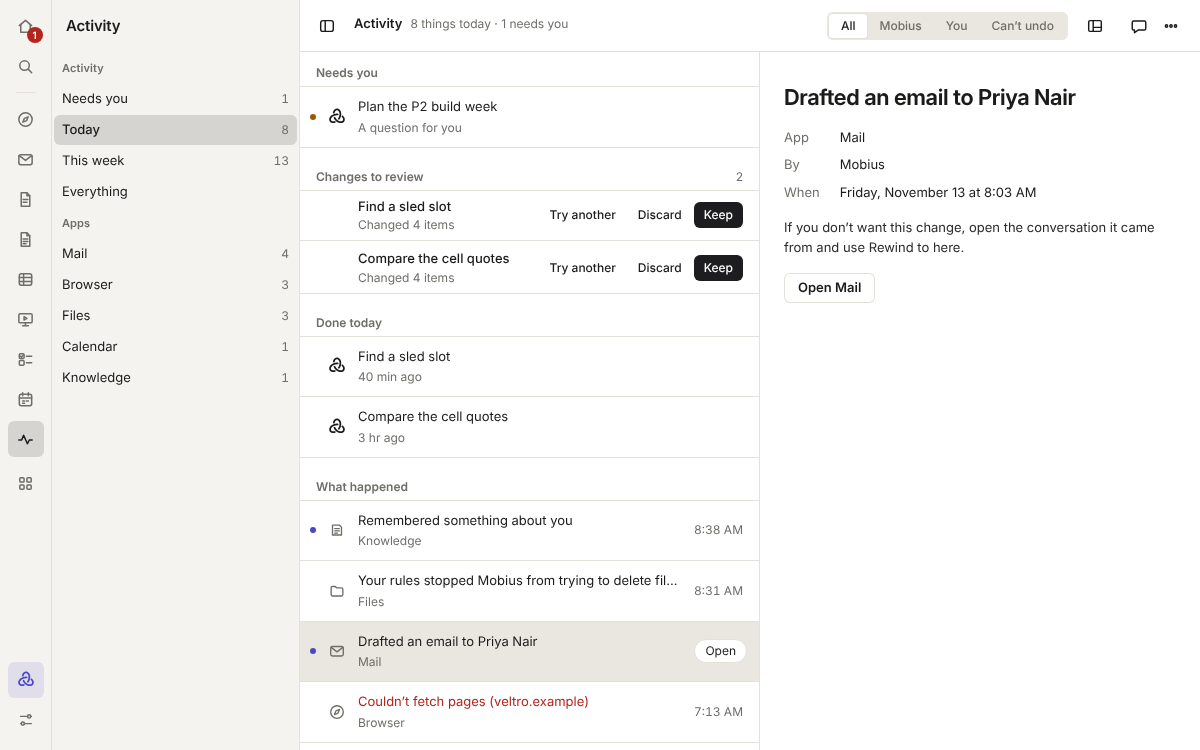
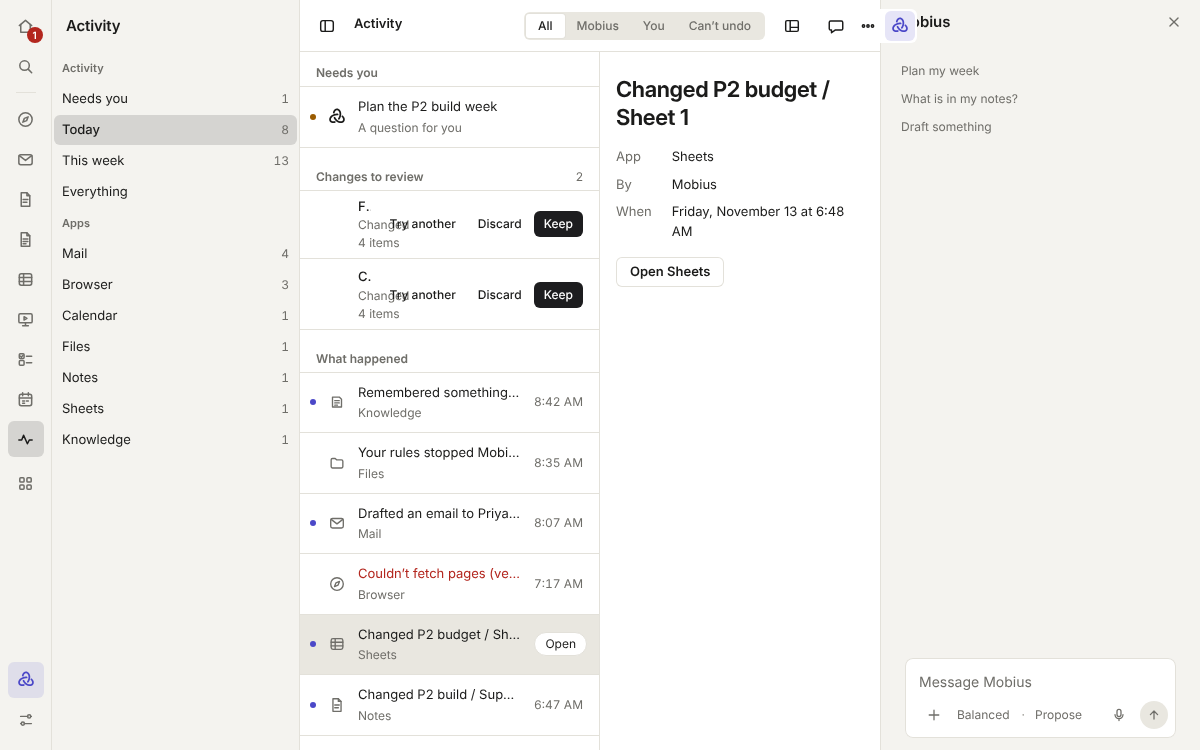
Activity: review fixes
Mobius sits beside Activity like every app; Rewind to here on a changed
line instead of an explanation; a changed file is listed under its app
(Sheets, Notes); a conversation with changes to review isn't listed again
under Done today.

Claude-Session: https://claude.ai/code/session_01VRGwo8MQeAp1rbd5MofB7H

diff --git a/apps/desktop/src/ActivityApp.tsx b/apps/desktop/src/ActivityApp.tsx
@@ -14,8 +14,41 @@ import './activity.css';
 /** How many log entries the page reads: about a week of ordinary use. */
 const LIMIT = 400;
 
-/** What is open on the right: a conversation (with its turns), or one line of the history. */
-type Picked = { kind: 'conversation'; id: string } | { kind: 'item'; seq: number } | null;
+/** What is open on the right: a conversation (with its turns, maybe asking to rewind to one), or one line of the history. */
+type Picked = { kind: 'conversation'; id: string; rewindTo?: string } | { kind: 'item'; seq: number } | null;
+
+/**
+ * Where to rewind to so that a line of the history is undone: the turn before the one it happened in, in the
+ * conversation that was working then. Only conversations that moved after it are read. Null when there is none (it
+ * happened in a conversation's first turn, or no turn is saved).
+ */
+async function rewindFor(when: number, conversations: readonly ConversationInfo[]): Promise<{ id: string; start: string } | null> {
+  const api = window.mobius.changes;
+  if (!api?.turns) return null;
+  let best: { id: string; start: string; at: number } | null = null;
+  for (const c of conversations.filter((x) => x.updated_ms >= when).slice(0, 12)) {
+    const r = await api.turns(c.id).catch(() => null);
+    const turns = r && r.ok ? r.turns.filter((t) => t.ended) : [];
+    const i = turns.findLastIndex((t) => t.when <= when);
+    const before = i > 0 ? turns[i - 1] : undefined;
+    if (before && (!best || turns[i]!.when > best.at)) best = { id: c.id, start: before.start, at: turns[i]!.when };
+  }
+  return best && { id: best.id, start: best.start };
+}
+
+/** Rewind to here, on a line Mobius changed: shown once the conversation and turn it came from are found. */
+function RewindButton({ when, conversations, onRewind }: { when: number; conversations: readonly ConversationInfo[]; onRewind: (id: string, start: string) => void }) {
+  const [to, setTo] = useState<{ id: string; start: string } | null>(null);
+  useEffect(() => {
+    let live = true;
+    setTo(null);
+    void rewindFor(when, conversations).then((r) => { if (live) setTo(r); });
+    return () => { live = false; };
+    // eslint-disable-next-line react-hooks/exhaustive-deps
+  }, [when]);
+  if (!to) return null;
+  return <button type="button" className="btn" onClick={() => onRewind(to.id, to.start)}>Rewind to here</button>;
+}
 
 /**
  * The Activity app's state: the log on this computer, read again whenever a conversation moves, where the sidebar
@@ -138,7 +171,7 @@ function Detail({ feed, picked: p, conversations, onOpenConversation, onOpenApp 
           <h2 className="act-detail-title">{c.title || 'A conversation'}</h2>
           <p className="act-detail-sub">Last active {relativeTime(c.updated_ms, Date.now()).toLowerCase()}</p>
           <div className="act-detail-actions"><button type="button" className="btn" onClick={() => onOpenConversation(c.id)}>Open conversation</button></div>
-          <Turns conversation={c.id} busy={c.activity === 'working'} version={c.updated_ms} />
+          <Turns conversation={c.id} busy={c.activity === 'working'} version={c.updated_ms} {...(p.rewindTo ? { rewindTo: p.rewindTo } : {})} />
         </section>
       );
     }
@@ -155,8 +188,10 @@ function Detail({ feed, picked: p, conversations, onOpenConversation, onOpenApp 
             <dt>When</dt><dd>{new Date(item.when).toLocaleString([], { weekday: 'long', hour: 'numeric', minute: '2-digit', month: 'long', day: 'numeric' })}</dd>
           </dl>
           {item.final && <p className="act-detail-note">This can’t be undone, so Mobius asked before doing it.</p>}
-          {item.changed && !item.final && <p className="act-detail-note">If you don’t want this change, open the conversation it came from and use Rewind to here.</p>}
-          {item.app && <div className="act-detail-actions"><button type="button" className="btn" onClick={() => onOpenApp(item.app!)}>Open {appName(item.app)}</button></div>}
+          <div className="act-detail-actions">
+            {item.app && <button type="button" className="btn" onClick={() => onOpenApp(item.app!)}>Open {appName(item.app)}</button>}
+            {item.changed && !item.final && <RewindButton when={item.when} conversations={conversations} onRewind={(id, start) => feed.setPicked({ kind: 'conversation', id, rewindTo: start })} />}
+          </div>
         </section>
       );
     }
@@ -186,8 +221,9 @@ export function ActivityPage({ feed, conversations, active, onOpenConversation, 
   const lead = place === 'today' || needs;
   const shown = needs ? [] : feed.items.filter((i) => inPlace(i, place, now) && byWho(i, who));
   const days = byDay(shown, now);
+  const [reviewing, setReviewing] = useState<string[]>([]);
   const pick = (p: Picked) => feed.setPicked(p);
-  const isPicked = (p: Picked) => JSON.stringify(p) === JSON.stringify(picked);
+  const isPicked = (p: Picked) => !!p && !!picked && (p.kind === 'item' ? picked.kind === 'item' && picked.seq === p.seq : picked.kind === 'conversation' && picked.id === p.id);
   const convo = (title: string, list: ConversationInfo[]) => list.length > 0 && (
     <section className="act-group" aria-label={title}>
       <h2 className="act-label">{title}</h2>
@@ -204,8 +240,9 @@ export function ActivityPage({ feed, conversations, active, onOpenConversation, 
       <div className="act-scroll">
         {lead && convo('Needs you', board.needsYou)}
         {lead && convo('Running', board.running)}
-        {lead && <div className="act-embed"><ChangesWaiting conversations={board.doneToday.slice(0, 10)} onSelect={(id) => pick({ kind: 'conversation', id })} /></div>}
-        {place === 'today' && convo('Done today', board.doneToday)}
+        {lead && <div className="act-embed"><ChangesWaiting conversations={board.doneToday.slice(0, 10)} onSelect={(id) => pick({ kind: 'conversation', id })} onRows={setReviewing} /></div>}
+        {/* A conversation with changes to review is listed there until they are kept or discarded, not twice. */}
+        {place === 'today' && convo('Done today', board.doneToday.filter((c) => !reviewing.includes(c.id)))}
         {place === 'today' && onOpenSchedules && <div className="act-embed"><ScheduledList onOpen={onOpenSchedules} /></div>}
         {days.map((d) => (
           <section key={d.label} className="act-group" aria-label={d.label}>

diff --git a/apps/desktop/src/activity-feed.ts b/apps/desktop/src/activity-feed.ts
@@ -56,6 +56,26 @@ export function appOfCapability(capability: string | null): AppId | null {
   return APP_OF[capability.split('.')[0] ?? ''] ?? null;
 }
 
+/** The workspace folder a file lives in, and the app it belongs to: a write to notes/… happened in Notes. */
+const APP_OF_FOLDER: Record<string, AppId> = {
+  notes: 'notes', docs: 'docs', slides: 'slides', sheets: 'sheets', tasks: 'tasks', calendar: 'calendar', code: 'code',
+  designs: 'design', boards: 'canvas', research: 'research', reading: 'reader', databases: 'database', photos: 'photo',
+  studio: 'studio', video: 'video', skills: 'skills',
+};
+
+/**
+ * A file capability's resource, when it is a workspace path: the app it belongs to and its name as that app shows it
+ * ("notes/P2 build/Supplier notes.md" is Notes' "P2 build / Supplier notes"). Null for anything else.
+ */
+export function appOfFile(resource: string | null): { app: AppId; name: string } | null {
+  if (!resource) return null;
+  const parts = resource.replace(/\\/g, '/').split('/');
+  const app = parts.length > 1 ? APP_OF_FOLDER[parts[0]!] : undefined;
+  if (!app) return null;
+  const name = parts.slice(1).join(' / ').replace(/\.(md|csv|json|ics|sqlite)$/i, '');
+  return { app, name };
+}
+
 /** Paying, sending, deleting and running commands always ask first, because none of them can be undone. */
 export function isFinal(capability: string | null): boolean {
   if (!capability) return false;
@@ -134,8 +154,10 @@ const WHO: Record<string, FeedItem['by']> = { agent: 'mobius', person: 'you' };
 export function feedOf(entries: readonly ActivityEntry[]): FeedItem[] {
   const out: FeedItem[] = [];
   for (const e of entries) {
-    const on = e.resource ?? '';
-    const app = appOfCapability(e.capability);
+    // A file Mobius changed belongs to the app that shows it: a sheet to Sheets, a note to Notes.
+    const file = /^(files|fs)\./.test(e.capability ?? '') ? appOfFile(e.resource) : null;
+    const on = file?.name ?? e.resource ?? '';
+    const app = file?.app ?? appOfCapability(e.capability);
     // Only what actually happened (or was allowed to) is marked: a refused send changed nothing.
     const final = isFinal(e.capability) && (e.kind === 'tool.completed' || e.kind === 'permission.approved');
     const by = e.who ? (WHO[e.who] ?? 'other') : 'mobius';

diff --git a/apps/desktop/src/Rewind.tsx b/apps/desktop/src/Rewind.tsx
@@ -27,7 +27,14 @@ const when = (ms: number) => timeLabel(ms);
  * The open conversation's turns, newest first, in Activity. "Rewind to here" puts every app back as it was right after
  * that turn and takes out the turns after it; it asks once, naming what will change, and can be undone for a moment.
  */
-export function Turns({ conversation, busy, version = 0 }: { conversation: string; busy: boolean; /** Changes when the conversation does, so the list is read again. */ version?: number }) {
+export function Turns({ conversation, busy, version = 0, rewindTo }: {
+  conversation: string;
+  busy: boolean;
+  /** Changes when the conversation does, so the list is read again. */
+  version?: number;
+  /** A turn to ask about at once, as if its Rewind to here was pressed (Activity's Rewind to here on a line). */
+  rewindTo?: string;
+}) {
   const [turns, setTurns] = useState<TurnRecord[]>([]);
   const [asking, setAsking] = useState<{ start: string; question: string } | null>(null);
   const [rewound, setRewound] = useState<{ undo: string; ask: string } | null>(null);
@@ -48,6 +55,16 @@ export function Turns({ conversation, busy, version = 0 }: { conversation: strin
   // The end of the turn just finished is saved a moment after it: read the list again then.
   useEffect(() => { const t = window.setTimeout(() => void load(), 1500); return () => window.clearTimeout(t); }, [load, version]);
   useEffect(() => { if (!rewound) return undefined; const t = window.setTimeout(() => setRewound(null), 10_000); return () => window.clearTimeout(t); }, [rewound]);
+  const asked = useRef<string | null>(null);
+  const hasTurn = !!rewindTo && turns.some((t) => t.start === rewindTo);
+  useEffect(() => {
+    if (!rewindTo || !hasTurn || asked.current === rewindTo) return;
+    asked.current = rewindTo;
+    void (async () => {
+      const preview = await api?.rewindPreview?.(conversation, rewindTo).catch(() => null);
+      if (preview && preview.ok) setAsking({ start: rewindTo, question: rewindQuestion(preview.later, appsOf(preview.files)) });
+    })();
+  }, [api, conversation, rewindTo, hasTurn]);
   if (!api?.rewind || (turns.length === 0 && !rewound)) return null;
 
   const ask = async (start: string) => {

diff --git a/apps/desktop/src/App.tsx b/apps/desktop/src/App.tsx
@@ -564,7 +564,8 @@ export function App() {
   const hasAppList = inBrowser || inSearch || inAgent || inMail || inCode || inDesign || inCanvas || inViews || inResearch || inReader || inDatabase || inTerminal || inReview || inFiles || inWiki || inProjects || inPhoto || inStudio || inVideo || inSkills || inNotes || inDocs || inSheets || inSlides || inTasks || inCalendar;
   // The agent panel sits beside the Browser and Notes; the Agent app is the conversation itself.
   // With the Agent app open in a pane, the conversation is already on screen.
-  const hasRight = (inBrowser || inMail || inCode || inDesign || inCanvas || inViews || inResearch || inReader || inDatabase || inTerminal || inReview || inFiles || inWiki || inProjects || inPhoto || inStudio || inVideo || inSkills || inNotes || inDocs || inSheets || inSlides || inTasks || inCalendar) && !shows('agent');
+  const hasRight = (inBrowser || inMail || inCode || inDesign || inCanvas || inViews || inResearch || inReader || inDatabase || inTerminal || inReview || inFiles || inWiki || inProjects || inPhoto || inStudio || inVideo || inSkills || inNotes || inDocs || inSheets || inSlides || inTasks || inCalendar) && !shows('agent')
+    || (inActivity && !split); // Activity (marked): its page fills the stage, so Mobius sits beside it as in every app
   const leftFloating = appearance.value.leftSidebar === 'floating';
   const rightFloating = appearance.value.rightSidebar === 'floating';
   const [agentListOpen, setAgentListOpen] = useState(true);

diff --git a/apps/desktop/src/ConversationSidebar.tsx b/apps/desktop/src/ConversationSidebar.tsx
@@ -251,8 +251,15 @@ function ScheduledSection({ onOpen }: { onOpen: () => void }) {
  * Changes not yet kept or discarded, from today's conversations, one row per conversation: the design's Activity
  * history with Undo, for each conversation's last turn. Keep and Discard do what they do in the strip.
  */
-export function ChangesWaiting({ conversations, onSelect }: { conversations: ConversationInfo[]; onSelect: (id: string) => void }) {
+export function ChangesWaiting({ conversations, onSelect, onRows }: {
+  conversations: ConversationInfo[];
+  onSelect: (id: string) => void;
+  /** Activity (marked, Activity only): which conversations are listed, so it doesn't list them twice. */
+  onRows?: (ids: string[]) => void;
+}) {
   const [rows, setRows] = useState<{ conversation: ConversationInfo; turn: string | null; files: string[] }[]>([]);
+  const listed = rows.map((r) => r.conversation.id).join(',');
+  useEffect(() => { onRows?.(listed ? listed.split(',') : []); }, [listed]); // eslint-disable-line react-hooks/exhaustive-deps
   const [tick, setTick] = useState(0);
   const ids = conversations.map((c) => c.id).join(',');
   useEffect(() => {

diff --git a/apps/desktop/src/activity-feed.test.ts b/apps/desktop/src/activity-feed.test.ts
@@ -34,6 +34,17 @@ describe('the Activity feed', () => {
     expect(feedOf([{ ...entry('tool.completed', 'demo.echo'), tool: 'echo' }])[0]!.text).toBe('Used echo');
   });
 
+  it('puts a changed file in the app it belongs to, by its name there', () => {
+    const [sheet, note, plain] = feedOf([
+      entry('tool.completed', 'files.write', 'sheets/P2 budget/Sheet 1.csv', 'agent', at),
+      entry('tool.completed', 'files.write', 'notes/P2 build/Supplier notes.md', 'agent', at - 1),
+      entry('tool.completed', 'files.write', 'Downloads/quote.pdf', 'agent', at - 2),
+    ]);
+    expect(sheet).toMatchObject({ app: 'sheets', text: 'Changed P2 budget / Sheet 1' });
+    expect(note).toMatchObject({ app: 'notes', text: 'Changed P2 build / Supplier notes' });
+    expect(plain).toMatchObject({ app: 'files', text: 'Changed Downloads/quote.pdf' });
+  });
+
   it('lists newest first', () => {
     const items = feedOf([entry('tool.completed', 'mail.read', null, 'agent', at - 1000), entry('tool.completed', 'calendar.read', null, 'agent', at)]);
     expect(items.map((i) => i.app)).toEqual(['calendar', 'mail']);

diff --git a/apps/desktop/src/bridge/preview-activity.ts b/apps/desktop/src/bridge/preview-activity.ts
@@ -13,8 +13,8 @@ const LOG = [
   entry(25 * hour, 'permission.rejected', 'payments.pay', 'Veltro Cells deposit', 'person'),
   entry(3 * hour, 'tool.completed', 'browser.navigate', 'axion.example'),
   entry(3 * hour - 2 * min, 'tool.completed', 'browser.read', 'Axion 150 kW traction motor'),
-  entry(2 * hour, 'tool.completed', 'files.write', 'P2 build / Supplier notes'),
-  entry(2 * hour - min, 'tool.completed', 'files.write', 'P2 budget / Sheet 1'),
+  entry(2 * hour, 'tool.completed', 'files.write', 'notes/P2 build/Supplier notes.md'),
+  entry(2 * hour - min, 'tool.completed', 'files.write', 'sheets/P2 budget/Sheet 1.csv'),
   entry(90 * min, 'tool.failed', 'net.http_get', 'veltro.example'),
   entry(40 * min, 'tool.completed', 'mail.draft', 'Priya Nair'),
   entry(12 * min, 'permission.denied', 'files.delete', 'Old quotes'),

diff --git a/docs/apps/assistant.md b/docs/apps/assistant.md
@@ -48,8 +48,10 @@ or type "Activity" in the launcher (Ctrl+K).
 - **The list** is laid out like Mail's inbox. In **Today** it leads with what **needs you**, what is **running**, the
   **changes to review** (Keep or Discard), what finished today and what is scheduled, then what happened. Each line is
   the app's icon, one sentence ("Sent an email to Sam Okafor") and the time. An indigo dot marks a change Mobius made;
-  something that failed is shown in red. **Open** on a line takes you to its app.
-- **The right side** shows what you chose: a line's app, who did it and when, or a conversation with its turns and
+  something that failed is shown in red. A changed file is listed under the app it belongs to (a sheet under
+  Sheets). **Open** on a line takes you to its app.
+- **The right side** shows what you chose: a line's app, who did it and when, with **Rewind to here** to undo a
+  change Mobius made, or a conversation with its turns and
   [Rewind to here](../guide/working-with-mobius.md#rewind-to-here).
 - **The sidebar** chooses where to look: **Needs you**, **Today**, **This week**, **Everything**, then each app.
 - **The toolbar** chooses who did it: **All**, **Mobius**, **You**, or **Can't undo** (sending, paying, deleting and
